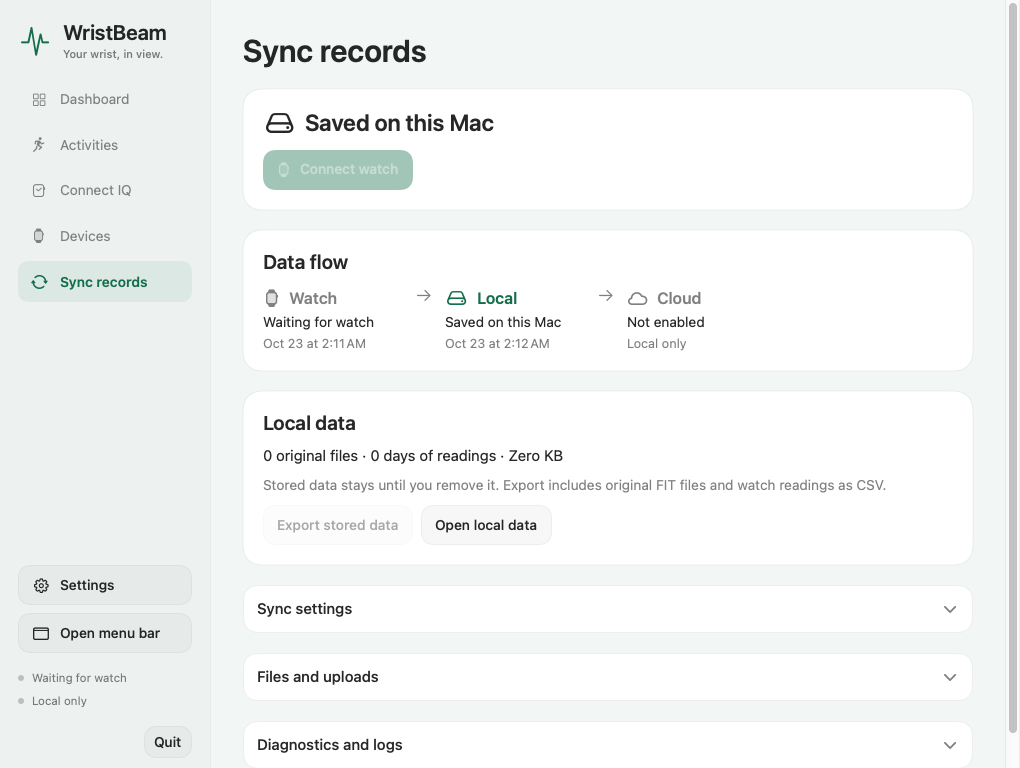
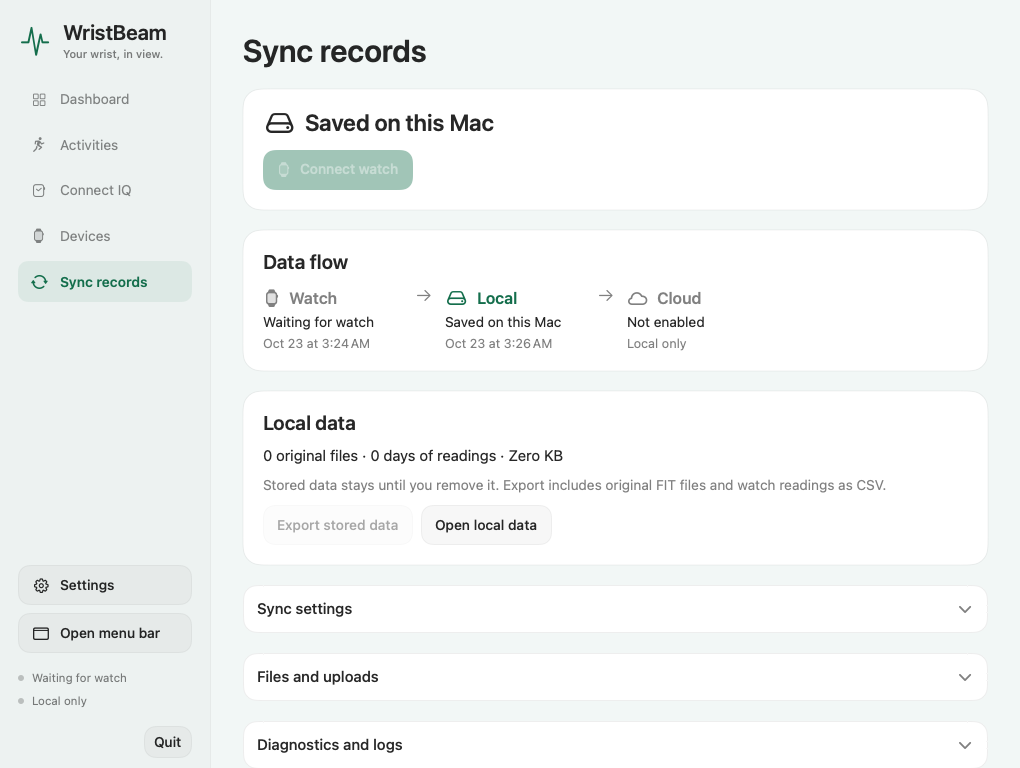
docs: show scrollbar-free interface comparisons

Changed region(s): [[0.9725, 0.0, 1.0, 0.9688], [0.4863, 0.4375, 0.5471, 0.4688], [0.3343, 0.4375, 0.3647, 0.4688]]

diff --git a/docs/review/pr-20/README.md b/docs/review/pr-20/README.md
@@ -3,7 +3,8 @@
 Native SwiftUI screenshots with isolated synthetic data, embedded directly in [PR #20](https://github.com/kongdayan/wristbeam/pull/20).
 
 - Before: main CI run [39706503136](https://github.com/kongdayan/wristbeam/actions/runs/39706503136).
-- After: application commit `0dde7d590964c2358210784ac070ebbc88469eb6`, CI run [39887716859](https://github.com/kongdayan/wristbeam/actions/runs/39887716859).
+- After: application commit `2d2296fdd2960324b0acd4847613f7c3b722a4f3`, CI run [39894382413](https://github.com/kongdayan/wristbeam/actions/runs/39894382413).
+- Scrollbar comparison before: application commit `0dde7d5`, CI run [39887716859](https://github.com/kongdayan/wristbeam/actions/runs/39887716859).
 - English/Chinese, light/dark, expanded sections and 160% text samples.
 - Images contain no personal accounts, health records or credentials.
 
